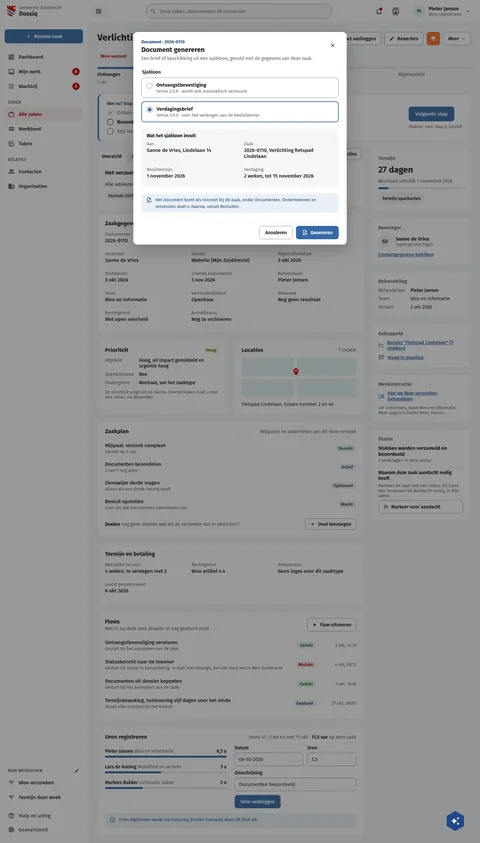
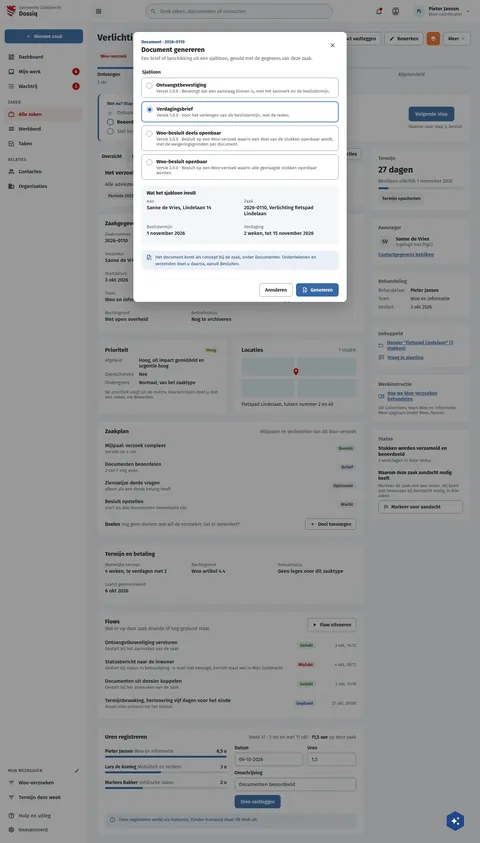
fix(screens): DqDocumentGenereren lists the templates dossiq ships
Ruben's decision d keeps the shipped templates; the case page lists four for
a Woo case: Ontvangstbevestiging 2.0.0, Verdagingsbrief 1.0.0, Woo-besluit
deels openbaar 3.0.0 and Woo-besluit openbaar 2.0.0, each with the
description live shows. Verdagingsbrief stays chosen.

Assisted-by: ClaudeCode:claude-opus-5-5

Changed region(s): [[0.25, 0.0925, 0.75, 0.3701], [0.625, 0.0925, 0.6875, 0.1234]]

diff --git a/preview/screens/boards/DqDocumentGenereren.html b/preview/screens/boards/DqDocumentGenereren.html
@@ -323,7 +323,7 @@ a{color:var(--sc-primary, #3669a5)}a:hover{color:var(--sc-primary-deep, #234a78)
         <button type="button" aria-label="Sluiten" style="flex: none; width: 36px; height: 36px; display: inline-flex; align-items: center; justify-content: center; border: 0; border-radius: 18px; background: transparent; color: var(--sc-work-text, #3d4047)"><svg width="20" height="20" viewbox="0 0 24 24" fill="currentColor" aria-hidden="true"><path d="M19,6.41L17.59,5L12,10.59L6.41,5L5,6.41L10.59,12L5,17.59L6.41,19L12,13.41L17.59,19L19,17.59L13.41,12L19,6.41Z"></path></svg></button>
       </div>
       <form style="display: flex; flex-direction: column; gap: 18px; padding: 18px 24px 22px">
-<fieldset style="margin: 0; padding: 0; border: 0; display: flex; flex-direction: column; gap: 10px"><legend style="font-size: 14px; font-weight: 600; margin-bottom: 8px">Sjabloon</legend><label style="display: flex; gap: 12px; align-items: flex-start; padding: 12px 14px; border-radius: 10px; border: 1px solid var(--sc-work-field, #828a95)"><input type="radio" name="tpl" style="width: 18px; height: 18px; margin: 2px 0 0; accent-color: var(--sc-primary, #3669a5); flex: none"><span style="display: flex; flex-direction: column; gap: 2px"><strong style="font-size: 15px">Ontvangstbevestiging</strong><span style="font-size: 13px; color: var(--sc-work-muted, #5e6168)">Versie 2.0.0 · wordt ook automatisch verstuurd</span></span></label><label style="display: flex; gap: 12px; align-items: flex-start; padding: 12px 14px; border-radius: 10px; border: 2px solid var(--sc-primary, #3669a5); background: #ffffff"><input type="radio" name="tpl" checked style="width: 18px; height: 18px; margin: 2px 0 0; accent-color: var(--sc-primary, #3669a5); flex: none"><span style="display: flex; flex-direction: column; gap: 2px"><strong style="font-size: 15px">Verdagingsbrief</strong><span style="font-size: 13px; color: var(--sc-work-muted, #5e6168)">Versie 1.0.0 · voor het verlengen van de beslistermijn</span></span></label></fieldset><div style="display: flex; flex-direction: column; gap: 8px; padding: 14px 16px; border-radius: 10px; background: var(--sc-work-ground, #f5f6f8)"><strong style="font-size: 14px">Wat het sjabloon invult</strong><dl style="margin: 0; display: grid; grid-template-columns: repeat(auto-fit, minmax(180px, 1fr)); gap: 12px 24px; font-size: 15px"><div style="display: flex; flex-direction: column; gap: 3px; padding-bottom: 10px; border-bottom: 1px solid var(--sc-work-soft, #eef0f3)"><dt style="font-size: 13px; color: var(--sc-work-muted, #5e6168)">Aan</dt><dd style="margin: 0; font-weight: 500">Sanne de Vries, Lindelaan 14</dd></div><div style="display: flex; flex-direction: column; gap: 3px; padding-bottom: 10px; border-bottom: 1px solid var(--sc-work-soft, #eef0f3)"><dt style="font-size: 13px; color: var(--sc-work-muted, #5e6168)">Zaak</dt><dd style="margin: 0; font-weight: 500">2026-0110, Verlichting fietspad Lindelaan</dd></div><div style="display: flex; flex-direction: column; gap: 3px; padding-bottom: 10px; border-bottom: 1px solid var(--sc-work-soft, #eef0f3)"><dt style="font-size: 13px; color: var(--sc-work-muted, #5e6168)">Beslistermijn</dt><dd style="margin: 0; font-weight: 500">1 november 2026</dd></div><div style="display: flex; flex-direction: column; gap: 3px; padding-bottom: 10px; border-bottom: 1px solid var(--sc-work-soft, #eef0f3)"><dt style="font-size: 13px; color: var(--sc-work-muted, #5e6168)">Verdaging</dt><dd style="margin: 0; font-weight: 500">2 weken, tot 15 november 2026</dd></div></dl></div><div style="display: flex; gap: 10px; align-items: flex-start; padding: 10px 14px; border-radius: 10px; background: var(--sc-primary-light, #eaf0f7); color: var(--sc-primary-deep, #234a78); font-size: 13px; line-height: 1.5"><svg width="18" height="18" viewbox="0 0 24 24" fill="currentColor" aria-hidden="true" style="flex: none; margin-top: 1px"><path d="M23.5 17L18.5 22L15 18.5L16.5 17L18.5 19L22 15.5L23.5 17M6 2C4.89 2 4 2.9 4 4V20C4 21.11 4.89 22 6 22H13.81C13.45 21.38 13.2 20.7 13.08 20H6V4H13V9H18V13.08C18.33 13.03 18.67 13 19 13C19.34 13 19.67 13.03 20 13.08V8L14 2M8 12V14H16V12M8 16V18H13V16Z"></path></svg><span>Het document komt als concept bij de zaak, onder Documenten. Ondertekenen en verzenden doet u daarna, vanuit Besluiten.</span></div>
+<fieldset style="margin: 0; padding: 0; border: 0; display: flex; flex-direction: column; gap: 10px"><legend style="font-size: 14px; font-weight: 600; margin-bottom: 8px">Sjabloon</legend><label style="display: flex; gap: 12px; align-items: flex-start; padding: 12px 14px; border-radius: 10px; border: 1px solid var(--sc-work-field, #828a95)"><input type="radio" name="tpl" style="width: 18px; height: 18px; margin: 2px 0 0; accent-color: var(--sc-primary, #3669a5); flex: none"><span style="display: flex; flex-direction: column; gap: 2px"><strong style="font-size: 15px">Ontvangstbevestiging</strong><span style="font-size: 13px; color: var(--sc-work-muted, #5e6168)">Versie 2.0.0 · Bevestigt dat een aanvraag binnen is, met het kenmerk en de beslistermijn.</span></span></label><label style="display: flex; gap: 12px; align-items: flex-start; padding: 12px 14px; border-radius: 10px; border: 2px solid var(--sc-primary, #3669a5); background: #ffffff"><input type="radio" name="tpl" checked style="width: 18px; height: 18px; margin: 2px 0 0; accent-color: var(--sc-primary, #3669a5); flex: none"><span style="display: flex; flex-direction: column; gap: 2px"><strong style="font-size: 15px">Verdagingsbrief</strong><span style="font-size: 13px; color: var(--sc-work-muted, #5e6168)">Versie 1.0.0 · Voor het verlengen van de beslistermijn, met de reden.</span></span></label><label style="display: flex; gap: 12px; align-items: flex-start; padding: 12px 14px; border-radius: 10px; border: 1px solid var(--sc-work-field, #828a95)"><input type="radio" name="tpl" style="width: 18px; height: 18px; margin: 2px 0 0; accent-color: var(--sc-primary, #3669a5); flex: none"><span style="display: flex; flex-direction: column; gap: 2px"><strong style="font-size: 15px">Woo-besluit deels openbaar</strong><span style="font-size: 13px; color: var(--sc-work-muted, #5e6168)">Versie 3.0.0 · Besluit op een Woo-verzoek waarin een deel van de stukken openbaar wordt, met de weigeringsgronden per document.</span></span></label><label style="display: flex; gap: 12px; align-items: flex-start; padding: 12px 14px; border-radius: 10px; border: 1px solid var(--sc-work-field, #828a95)"><input type="radio" name="tpl" style="width: 18px; height: 18px; margin: 2px 0 0; accent-color: var(--sc-primary, #3669a5); flex: none"><span style="display: flex; flex-direction: column; gap: 2px"><strong style="font-size: 15px">Woo-besluit openbaar</strong><span style="font-size: 13px; color: var(--sc-work-muted, #5e6168)">Versie 2.0.0 · Besluit op een Woo-verzoek waarin alle gevraagde stukken openbaar worden.</span></span></label></fieldset><div style="display: flex; flex-direction: column; gap: 8px; padding: 14px 16px; border-radius: 10px; background: var(--sc-work-ground, #f5f6f8)"><strong style="font-size: 14px">Wat het sjabloon invult</strong><dl style="margin: 0; display: grid; grid-template-columns: repeat(auto-fit, minmax(180px, 1fr)); gap: 12px 24px; font-size: 15px"><div style="display: flex; flex-direction: column; gap: 3px; padding-bottom: 10px; border-bottom: 1px solid var(--sc-work-soft, #eef0f3)"><dt style="font-size: 13px; color: var(--sc-work-muted, #5e6168)">Aan</dt><dd style="margin: 0; font-weight: 500">Sanne de Vries, Lindelaan 14</dd></div><div style="display: flex; flex-direction: column; gap: 3px; padding-bottom: 10px; border-bottom: 1px solid var(--sc-work-soft, #eef0f3)"><dt style="font-size: 13px; color: var(--sc-work-muted, #5e6168)">Zaak</dt><dd style="margin: 0; font-weight: 500">2026-0110, Verlichting fietspad Lindelaan</dd></div><div style="display: flex; flex-direction: column; gap: 3px; padding-bottom: 10px; border-bottom: 1px solid var(--sc-work-soft, #eef0f3)"><dt style="font-size: 13px; color: var(--sc-work-muted, #5e6168)">Beslistermijn</dt><dd style="margin: 0; font-weight: 500">1 november 2026</dd></div><div style="display: flex; flex-direction: column; gap: 3px; padding-bottom: 10px; border-bottom: 1px solid var(--sc-work-soft, #eef0f3)"><dt style="font-size: 13px; color: var(--sc-work-muted, #5e6168)">Verdaging</dt><dd style="margin: 0; font-weight: 500">2 weken, tot 15 november 2026</dd></div></dl></div><div style="display: flex; gap: 10px; align-items: flex-start; padding: 10px 14px; border-radius: 10px; background: var(--sc-primary-light, #eaf0f7); color: var(--sc-primary-deep, #234a78); font-size: 13px; line-height: 1.5"><svg width="18" height="18" viewbox="0 0 24 24" fill="currentColor" aria-hidden="true" style="flex: none; margin-top: 1px"><path d="M23.5 17L18.5 22L15 18.5L16.5 17L18.5 19L22 15.5L23.5 17M6 2C4.89 2 4 2.9 4 4V20C4 21.11 4.89 22 6 22H13.81C13.45 21.38 13.2 20.7 13.08 20H6V4H13V9H18V13.08C18.33 13.03 18.67 13 19 13C19.34 13 19.67 13.03 20 13.08V8L14 2M8 12V14H16V12M8 16V18H13V16Z"></path></svg><span>Het document komt als concept bij de zaak, onder Documenten. Ondertekenen en verzenden doet u daarna, vanuit Besluiten.</span></div>
       </form>
       <div style="display: flex; flex-wrap: wrap; justify-content: flex-end; gap: 10px; padding: 16px 24px; border-top: 1px solid var(--sc-work-soft, #eef0f3)">
         <button type="button" style="height: 40px; padding: 0 16px; border: 1px solid var(--sc-work-field, #828a95); border-radius: 8px; background: #ffffff; font: 600 14px var(--sc-font, 'Fira Sans'), sans-serif; color: var(--sc-work-ink, #1b1c1d)">Annuleren</button>

diff --git a/screens-src/zuiddrecht/DqDocumentGenereren.dc.html b/screens-src/zuiddrecht/DqDocumentGenereren.dc.html
@@ -173,7 +173,7 @@ a{color:#3669a5}a:hover{color:#234a78}
         <button type="button" aria-label="Sluiten" style="flex: none; width: 36px; height: 36px; display: inline-flex; align-items: center; justify-content: center; border: 0; border-radius: 18px; background: transparent; color: #3d4047"><svg width="20" height="20" viewBox="0 0 24 24" fill="currentColor" aria-hidden="true"><path d="M19,6.41L17.59,5L12,10.59L6.41,5L5,6.41L10.59,12L5,17.59L6.41,19L12,13.41L17.59,19L19,17.59L13.41,12L19,6.41Z"></path></svg></button>
       </div>
       <form style="display: flex; flex-direction: column; gap: 18px; padding: 18px 24px 22px">
-<fieldset style="margin: 0; padding: 0; border: 0; display: flex; flex-direction: column; gap: 10px"><legend style="font-size: 14px; font-weight: 600; margin-bottom: 8px">Sjabloon</legend><label style="display: flex; gap: 12px; align-items: flex-start; padding: 12px 14px; border-radius: 10px; border: 1px solid #828a95"><input type="radio" name="tpl" style="width: 18px; height: 18px; margin: 2px 0 0; accent-color: #3669a5; flex: none"><span style="display: flex; flex-direction: column; gap: 2px"><strong style="font-size: 15px">Ontvangstbevestiging</strong><span style="font-size: 13px; color: #5e6168">Versie 2.0.0 · wordt ook automatisch verstuurd</span></span></label><label style="display: flex; gap: 12px; align-items: flex-start; padding: 12px 14px; border-radius: 10px; border: 2px solid #3669a5; background: #ffffff"><input type="radio" name="tpl" checked style="width: 18px; height: 18px; margin: 2px 0 0; accent-color: #3669a5; flex: none"><span style="display: flex; flex-direction: column; gap: 2px"><strong style="font-size: 15px">Verdagingsbrief</strong><span style="font-size: 13px; color: #5e6168">Versie 1.0.0 · voor het verlengen van de beslistermijn</span></span></label></fieldset><div style="display: flex; flex-direction: column; gap: 8px; padding: 14px 16px; border-radius: 10px; background: #f5f6f8"><strong style="font-size: 14px">Wat het sjabloon invult</strong><dl style="margin: 0; display: grid; grid-template-columns: repeat(auto-fit, minmax(180px, 1fr)); gap: 12px 24px; font-size: 15px"><div style="display: flex; flex-direction: column; gap: 3px; padding-bottom: 10px; border-bottom: 1px solid #eef0f3"><dt style="font-size: 13px; color: #5e6168">Aan</dt><dd style="margin: 0; font-weight: 500">Sanne de Vries, Lindelaan 14</dd></div><div style="display: flex; flex-direction: column; gap: 3px; padding-bottom: 10px; border-bottom: 1px solid #eef0f3"><dt style="font-size: 13px; color: #5e6168">Zaak</dt><dd style="margin: 0; font-weight: 500">2026-0110, Verlichting fietspad Lindelaan</dd></div><div style="display: flex; flex-direction: column; gap: 3px; padding-bottom: 10px; border-bottom: 1px solid #eef0f3"><dt style="font-size: 13px; color: #5e6168">Beslistermijn</dt><dd style="margin: 0; font-weight: 500">1 november 2026</dd></div><div style="display: flex; flex-direction: column; gap: 3px; padding-bottom: 10px; border-bottom: 1px solid #eef0f3"><dt style="font-size: 13px; color: #5e6168">Verdaging</dt><dd style="margin: 0; font-weight: 500">2 weken, tot 15 november 2026</dd></div></dl></div><div style="display: flex; gap: 10px; align-items: flex-start; padding: 10px 14px; border-radius: 10px; background: #eaf0f7; color: #234a78; font-size: 13px; line-height: 1.5"><svg width="18" height="18" viewBox="0 0 24 24" fill="currentColor" aria-hidden="true" style="flex: none; margin-top: 1px"><path d="M23.5 17L18.5 22L15 18.5L16.5 17L18.5 19L22 15.5L23.5 17M6 2C4.89 2 4 2.9 4 4V20C4 21.11 4.89 22 6 22H13.81C13.45 21.38 13.2 20.7 13.08 20H6V4H13V9H18V13.08C18.33 13.03 18.67 13 19 13C19.34 13 19.67 13.03 20 13.08V8L14 2M8 12V14H16V12M8 16V18H13V16Z"></path></svg><span>Het document komt als concept bij de zaak, onder Documenten. Ondertekenen en verzenden doet u daarna, vanuit Besluiten.</span></div>
+<fieldset style="margin: 0; padding: 0; border: 0; display: flex; flex-direction: column; gap: 10px"><legend style="font-size: 14px; font-weight: 600; margin-bottom: 8px">Sjabloon</legend><label style="display: flex; gap: 12px; align-items: flex-start; padding: 12px 14px; border-radius: 10px; border: 1px solid #828a95"><input type="radio" name="tpl" style="width: 18px; height: 18px; margin: 2px 0 0; accent-color: #3669a5; flex: none"><span style="display: flex; flex-direction: column; gap: 2px"><strong style="font-size: 15px">Ontvangstbevestiging</strong><span style="font-size: 13px; color: #5e6168">Versie 2.0.0 · Bevestigt dat een aanvraag binnen is, met het kenmerk en de beslistermijn.</span></span></label><label style="display: flex; gap: 12px; align-items: flex-start; padding: 12px 14px; border-radius: 10px; border: 2px solid #3669a5; background: #ffffff"><input type="radio" name="tpl" checked style="width: 18px; height: 18px; margin: 2px 0 0; accent-color: #3669a5; flex: none"><span style="display: flex; flex-direction: column; gap: 2px"><strong style="font-size: 15px">Verdagingsbrief</strong><span style="font-size: 13px; color: #5e6168">Versie 1.0.0 · Voor het verlengen van de beslistermijn, met de reden.</span></span></label><label style="display: flex; gap: 12px; align-items: flex-start; padding: 12px 14px; border-radius: 10px; border: 1px solid #828a95"><input type="radio" name="tpl" style="width: 18px; height: 18px; margin: 2px 0 0; accent-color: #3669a5; flex: none"><span style="display: flex; flex-direction: column; gap: 2px"><strong style="font-size: 15px">Woo-besluit deels openbaar</strong><span style="font-size: 13px; color: #5e6168">Versie 3.0.0 · Besluit op een Woo-verzoek waarin een deel van de stukken openbaar wordt, met de weigeringsgronden per document.</span></span></label><label style="display: flex; gap: 12px; align-items: flex-start; padding: 12px 14px; border-radius: 10px; border: 1px solid #828a95"><input type="radio" name="tpl" style="width: 18px; height: 18px; margin: 2px 0 0; accent-color: #3669a5; flex: none"><span style="display: flex; flex-direction: column; gap: 2px"><strong style="font-size: 15px">Woo-besluit openbaar</strong><span style="font-size: 13px; color: #5e6168">Versie 2.0.0 · Besluit op een Woo-verzoek waarin alle gevraagde stukken openbaar worden.</span></span></label></fieldset><div style="display: flex; flex-direction: column; gap: 8px; padding: 14px 16px; border-radius: 10px; background: #f5f6f8"><strong style="font-size: 14px">Wat het sjabloon invult</strong><dl style="margin: 0; display: grid; grid-template-columns: repeat(auto-fit, minmax(180px, 1fr)); gap: 12px 24px; font-size: 15px"><div style="display: flex; flex-direction: column; gap: 3px; padding-bottom: 10px; border-bottom: 1px solid #eef0f3"><dt style="font-size: 13px; color: #5e6168">Aan</dt><dd style="margin: 0; font-weight: 500">Sanne de Vries, Lindelaan 14</dd></div><div style="display: flex; flex-direction: column; gap: 3px; padding-bottom: 10px; border-bottom: 1px solid #eef0f3"><dt style="font-size: 13px; color: #5e6168">Zaak</dt><dd style="margin: 0; font-weight: 500">2026-0110, Verlichting fietspad Lindelaan</dd></div><div style="display: flex; flex-direction: column; gap: 3px; padding-bottom: 10px; border-bottom: 1px solid #eef0f3"><dt style="font-size: 13px; color: #5e6168">Beslistermijn</dt><dd style="margin: 0; font-weight: 500">1 november 2026</dd></div><div style="display: flex; flex-direction: column; gap: 3px; padding-bottom: 10px; border-bottom: 1px solid #eef0f3"><dt style="font-size: 13px; color: #5e6168">Verdaging</dt><dd style="margin: 0; font-weight: 500">2 weken, tot 15 november 2026</dd></div></dl></div><div style="display: flex; gap: 10px; align-items: flex-start; padding: 10px 14px; border-radius: 10px; background: #eaf0f7; color: #234a78; font-size: 13px; line-height: 1.5"><svg width="18" height="18" viewBox="0 0 24 24" fill="currentColor" aria-hidden="true" style="flex: none; margin-top: 1px"><path d="M23.5 17L18.5 22L15 18.5L16.5 17L18.5 19L22 15.5L23.5 17M6 2C4.89 2 4 2.9 4 4V20C4 21.11 4.89 22 6 22H13.81C13.45 21.38 13.2 20.7 13.08 20H6V4H13V9H18V13.08C18.33 13.03 18.67 13 19 13C19.34 13 19.67 13.03 20 13.08V8L14 2M8 12V14H16V12M8 16V18H13V16Z"></path></svg><span>Het document komt als concept bij de zaak, onder Documenten. Ondertekenen en verzenden doet u daarna, vanuit Besluiten.</span></div>
       </form>
       <div style="display: flex; flex-wrap: wrap; justify-content: flex-end; gap: 10px; padding: 16px 24px; border-top: 1px solid #eef0f3">
         <button type="button" style="height: 40px; padding: 0 16px; border: 1px solid #828a95; border-radius: 8px; background: #ffffff; font: 600 14px 'Fira Sans', sans-serif; color: #1b1c1d">Annuleren</button>
